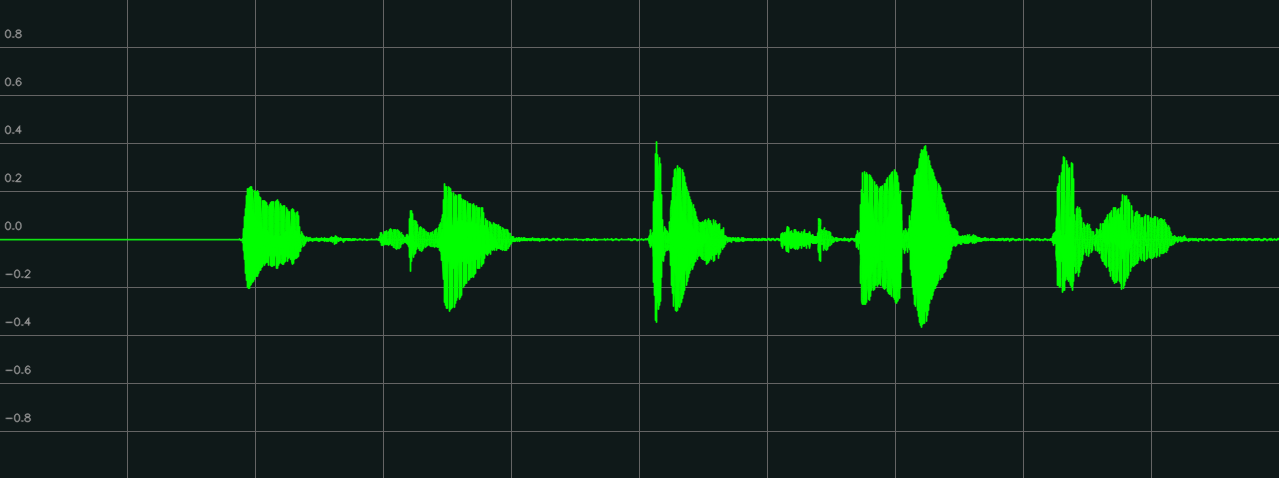
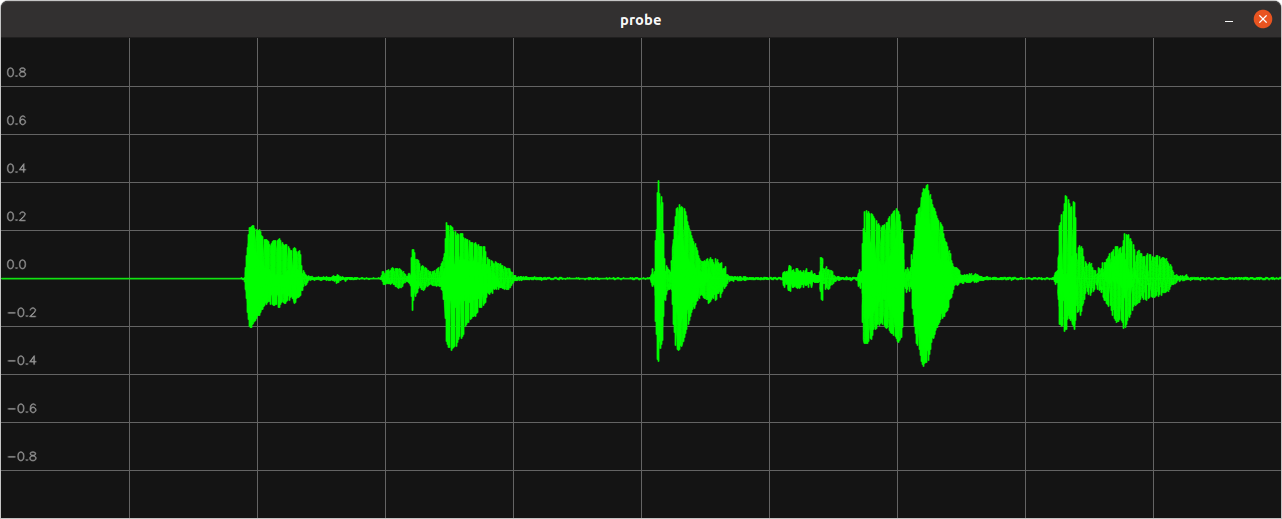
add picure

diff --git a/main.cpp b/main.cpp
@@ -14,7 +14,7 @@ void showWindowWithPlot(const std::string &_title, const cv::Size _windowsize, c
     if(_datalength > 0 && _windowsize.area() > 0 && _data != NULL ) {
 
         cv::Mat _colorplot = cv::Mat::zeros(_windowsize, CV_8UC3);
-        cv::rectangle(_colorplot,cv::Rect(0,0,_colorplot.cols,_colorplot.rows),cv::Scalar(25,25,15), -1);
+        cv::rectangle(_colorplot,cv::Rect(0,0,_colorplot.cols,_colorplot.rows),cv::Scalar(20,20,20), -1);
 
         int _ticksX = 10;
         float _tickstepX = static_cast<float>(_windowsize.width)/ _ticksX ;
